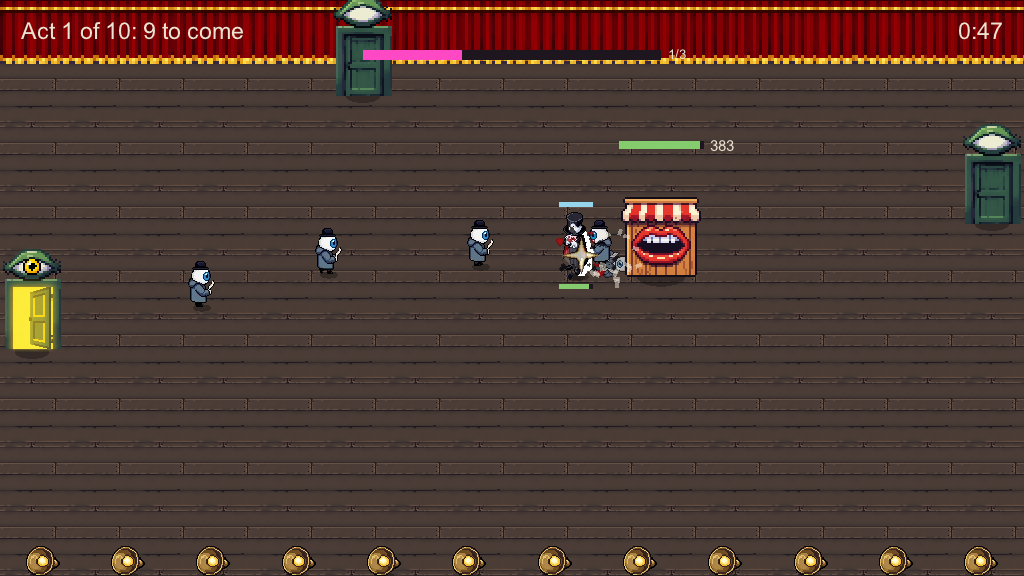
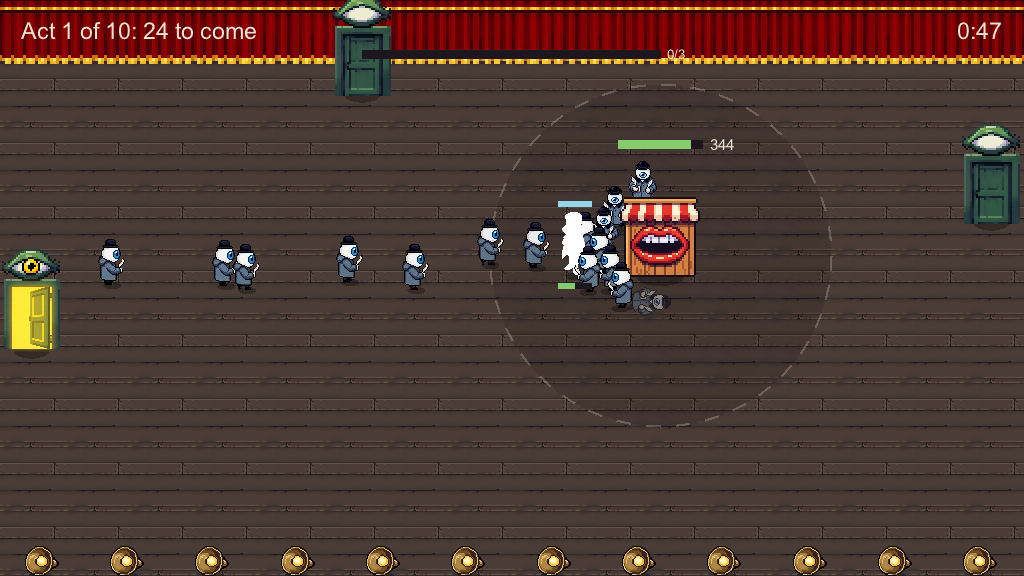
T26: the view: the floor where a fall earns no applause, and the capture's frames
A shade over the boards within applauseBoxOfficeRadius of the box office's
middle and a thin broken line round it, laid under everything on the floor
and kept to the floor. On the new numbers the capture's script loses in the
first act (the fall is on tick 1800, the close on 3420), so the frames are
921, 1756, 1890 and 3420, and the four of later ticks go.

Claude-Session: https://claude.ai/code/session_01V4qXWgB4bHFXePzLiSUbYT

diff --git a/src/Understudies.Game/UnderstudiesGame.cs b/src/Understudies.Game/UnderstudiesGame.cs
@@ -86,6 +86,16 @@ internal sealed partial class UnderstudiesGame : Microsoft.Xna.Framework.Game
         Path.Combine(Environment.GetFolderPath(Environment.SpecialFolder.Fonts), "arial.ttf"),
     ];
 
+
+    // The floor about the box office where a fall earns no applause: a shade over the boards and a broken line,
+    // both quiet. The rows are an eighth of a unit tall, and the line is cut into this many stretches, every
+    // other one drawn.
+    private const float QuietFloorRow = 0.125f;
+    private const int QuietFloorStretches = 72;
+    private const float QuietFloorLine = 0.1f;
+    private static readonly Color QuietFloorShade = Color.Black * 0.12f;
+    private static readonly Color QuietFloorEdge = new Color(236, 228, 210) * 0.24f;
+
     private static readonly Color Surround = new(24, 18, 28);
     private static readonly Color BackWall = new(52, 40, 62);
     private static readonly Color HitPoints = new(132, 204, 110);
@@ -394,8 +404,8 @@ internal sealed partial class UnderstudiesGame : Microsoft.Xna.Framework.Game
     private void Capture(string path)
     {
         // The script was written on the numbers of before plan T20, and what follows says what it did on those.
-        // On the committed numbers it loses: the magician falls a third of a second after its Vanish and the
-        // show closes in the second act. The README has those ticks.
+        // On the committed numbers it loses in the first act: the magician falls two seconds before its Vanish
+        // is due, and the show closes with a third of the act to go. The README has those ticks.
         // The first act: two seconds right and down, out of every critic's range, and still there while critics
         // gather at the box office: more of them than the magician's cards can fell in time. Then two seconds back
         // to the mark, which is at the edge of the crowd by now, and three seconds still: the crowd turns on the
@@ -407,7 +417,7 @@ internal sealed partial class UnderstudiesGame : Microsoft.Xna.Framework.Game
         // to the first door, the only one open, to a place below the critics' way that has the door in range and
         // is out of their reach, and every critic that enters falls there. The third: up, across behind the box
         // office and down its far side. In every later act the magician stands on its mark. (That is what the script
-        // says; on the committed numbers the show closes in the second act, as said above.)
+        // says; on the committed numbers the show closes in the first act, as said above.)
         // Every act opens with its curtain, whose ticks are counted here with the rest: the simulation takes no
         // input in them, and the script's own count, of an act's ticks, starts when the curtain is over.
         const int second = Simulation.TicksPerSecond;
@@ -486,6 +496,7 @@ internal sealed partial class UnderstudiesGame : Microsoft.Xna.Framework.Game
         // What lies flat on the floor, and the doors, which are of the set and hide nobody: whoever stands at a
         // door is drawn over it.
         _spriteBatch.Begin(samplerState: SamplerState.PointClamp, transformMatrix: worldToScreen);
+        DrawTheQuietFloor();
         for (int i = 0; i < Tuning.StageDoors.Count; i++)
         {
             // A door's foot is half its width below where its critics enter, and kept within the stage's sides: a
@@ -1080,6 +1091,49 @@ internal sealed partial class UnderstudiesGame : Microsoft.Xna.Framework.Game
 
     /// <summary>Where in a sorted batch what stands on <paramref name="feet"/> is drawn: the lower, the later.</summary>
     private float Depth(Vector2 feet) => Math.Clamp(feet.Y / Tuning.StageSize.Y, 0f, 1f);
+
+    /// <summary>
+    /// Where a fall earns no applause (plan decision 27): the floor within the tuning's radius of the box office's
+    /// middle a shade darker, and a thin broken line round it. Only what is on the floor is drawn, and with no
+    /// radius nothing is.
+    /// </summary>
+    private void DrawTheQuietFloor()
+    {
+        float radius = Tuning.ApplauseBoxOfficeRadius;
+        if (radius <= 0f)
+        {
+            return;
+        }
+
+        // Rows that lie one below another and never on one another, each as wide as the circle is at its middle
+        // and no wider than the floor.
+        Vector2 middle = Tuning.BoxOfficePosition;
+        for (float top = MathF.Max(middle.Y - radius, Tuning.StageFloorTop);
+            top < MathF.Min(middle.Y + radius, Tuning.StageSize.Y);
+            top += QuietFloorRow)
+        {
+            float y = top + (QuietFloorRow / 2f) - middle.Y;
+            float halfWidth = MathF.Sqrt(MathF.Max(0f, (radius * radius) - (y * y)));
+            float left = MathF.Max(0f, middle.X - halfWidth);
+            float right = MathF.Min(Tuning.StageSize.X, middle.X + halfWidth);
+            if (right > left)
+            {
+                Fill(new Vector2(left, top), new Vector2(right - left, QuietFloorRow), QuietFloorShade);
+            }
+        }
+
+        // The line: every other of the short straight stretches the circle is cut into.
+        float stretch = MathF.Tau / QuietFloorStretches;
+        for (int i = 0; i < QuietFloorStretches; i += 2)
+        {
+            float turn = (i + 0.5f) * stretch;
+            Vector2 at = middle + (new Vector2(MathF.Cos(turn), MathF.Sin(turn)) * radius);
+            if (at.X >= 0f && at.X <= Tuning.StageSize.X && at.Y >= Tuning.StageFloorTop && at.Y <= Tuning.StageSize.Y)
+            {
+                FillTurned(at, new Vector2(radius * stretch, QuietFloorLine), turn + (MathF.PI / 2f), QuietFloorEdge);
+            }
+        }
+    }
 
     /// <summary>A filled circle in world units, flat on the floor.</summary>
     /// <param name="flat">How tall it is for its width: under 1 it is a shadow's oval.</param>
